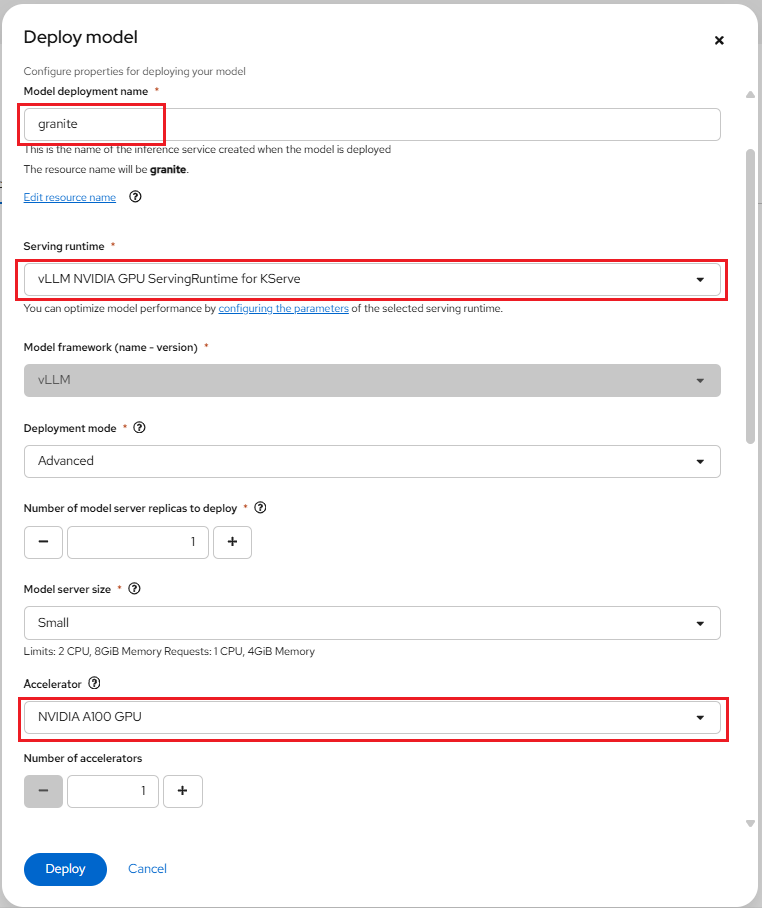
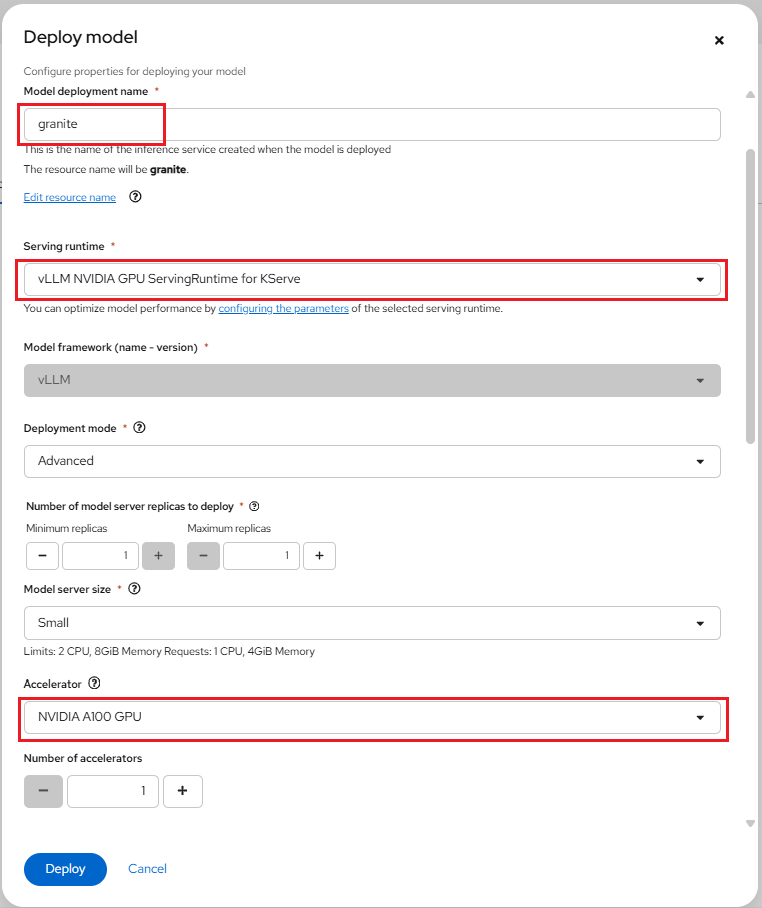
screenshot to show **Number of model server replicas to deploy** has **Minimum replicas** and **Maximum replicas**

Changed region(s): [[0.0302, 0.5551, 0.3622, 0.6476], [0.3924, 0.5859, 0.4226, 0.6167]]

diff --git a/docs/openshift-ai/data-science-project/using-projects-the-rhoai.md b/docs/openshift-ai/data-science-project/using-projects-the-rhoai.md
@@ -33,15 +33,41 @@ Within the data science project, you can add the following configuration options
 -   **Pipelines**: A list of created and configured data science pipeline servers
     within the project.
 
--   **Models**: A list of models and model servers that your project uses. Models
-    allow you to quickly serve a trained model for real-time inference. You can
-    have multiple model servers per data science project. One model server can
-    host multiple models.
+    *Pipelines* allow you to run multiple steps in a data science workflow,
+    where each step can be represented by an individual Jupyter notebook.
 
--   **Cluster storage**: Storage for your project in your OpenShift cluster.
+    *For example*, a typical workflow might begin with data cleaning, followed
+    by model training and prediction generation. Pipelines connect these
+    notebooks together and ensure that each step runs automatically in the
+    correct sequence.
+
+-   **Models**: A list of models and model servers used within your project. Models
+    enable you to serve trained models for real-time inference. You can configure
+    multiple model servers per data science project. Once a model is built, you
+    can use it by sending input data—typically through an API—and receiving
+    predictions or results in response.  
+
+    Models are generally stored as files in *storage* systems such as an S3
+    bucket or similar data store, which are accessed through configured **connections**.
+
+    More information about **Model Serving** in NERC RHOAI can be found [here](../data-science-project/model-serving-in-the-rhoai.md).
+
+-   **Cluster storage**: Storage for your project in your OpenShift cluster. Cluster
+    storage uses a **Persistent Volume Claim (PVC)** to store your Jupyter notebooks
+    and associated data, ensuring that your work remains saved and accessible even
+    if the notebook server restarts.
 
 -   **Connections**: A list of data sources that your project uses, such as an S3
-    object bucket.
+    object bucket. *Connections* allow you to link your project to external
+    storage systems and services. Typically, models are saved using
+    **S3-compatible storage** through a connection, but connections can also
+    serve other purposes, such as:
+
+    i. **OCI-compliant registries** – Integrate with container registries.
+
+    ii. **S3-compatible object storage** – Save models, datasets, and other files.
+
+    iii. **URIs** – Connect to various external data sources.
 
 -   **Permissions**: define which users and groups can access the project.
 

diff --git a/docs/openshift-ai/logging-in/the-rhoai-dashboard-overview.md b/docs/openshift-ai/logging-in/the-rhoai-dashboard-overview.md
@@ -11,6 +11,8 @@ In the NERC's RHOAI dashboard, you can see multiple links on your left hand side
     deploy various development environments (such as Jupyter Notebooks, VS Code,
     RStudio, etc.), create connections, or serve models.
 
+    More information about *Data Science Projects (DSP)* can be found [here](../data-science-project/using-projects-the-rhoai.md).
+
     !!! info "What are Workbenches?"
 
         Workbenches are development environments. They can be based on JupyterLab,
@@ -28,16 +30,21 @@ In the NERC's RHOAI dashboard, you can see multiple links on your left hand side
         models. Users can select a model registry to view and manage your registered
         models.
 
+        !!! warning "Important Note"
+
+            This feature is not yet available to users.
+
     -   _Model deployments_: Manage and view the health and performance of your
         deployed models. Also, you can "Deploy Model" to a specific project selected
         from the dropdown menu here. Models enable you to quickly serve trained
         models for real-time inference. Each data science project can have multiple
-        model servers, and each server can host multiple models.
+        model servers, and each server can host models. More information about
+        **Model Serving** in NERC RHOAI can be found [here](../data-science-project/model-serving-in-the-rhoai.md).
 
 3.  **Data Science Pipelines**:
 
     -   _Pipelines_: Manage your pipelines for a specific project selected from the
-        dropdown menu.
+        dropdown menu.  
 
     -   _Runs_: Manage and view your runs for a specific project selected from the
         dropdown menu.
@@ -51,6 +58,10 @@ In the NERC's RHOAI dashboard, you can see multiple links on your left hand side
     processing and the full ML lifecycle-training, tuning, and serving - by prioritizing
     and distributing jobs for optimal node utilization. Advanced GPU support ensures
     the performance and scalability required for foundation-model workloads.
+
+    !!! warning "Important Note"
+
+        This feature is not yet available to users.
 
 6.  **Applications**:
 

diff --git a/docs/openshift-ai/data-science-project/model-serving-in-the-rhoai.md b/docs/openshift-ai/data-science-project/model-serving-in-the-rhoai.md
@@ -82,9 +82,10 @@ In the pop-up window that appears, you can specify the following details:
     ii. **Standard**: Alternatively, you can use standard deployment mode, which
             uses KServe Raw Deployment mode.
 
--   **Number of model server replicas to deploy**: This is the number of instances
-    of the model server engine that you want to deploy. You can scale it up as needed,
-    depending on the number of requests you will receive.
+-   **Number of model server replicas to deploy**: This defines the number of
+    instances of the **model server engine** you want to deploy. You can scale it
+    up as needed by specifying the **Minimum replicas** and **Maximum replicas**,
+    depending on the expected number of incoming requests.
 
 -   **Model server size**: This is the amount of resources, CPU, and RAM that will
     be allocated to your server. Select the appropriate configuration for size and
@@ -177,8 +178,8 @@ In the pop-up window that appears, you can specify the following details:
     options in your OpenShift Data Science deployment. This framework is used to
     deploy and serve machine learning models.
 
--   **Number of model server replicas**: This is the number of instances of the
-    model server engine that you want to deploy. You can scale it up as needed,
+-   **Number of model server replicas to deploy**: This is the number of instances
+    of the model server engine that you want to deploy. You can scale it up as needed,
     depending on the number of requests you will receive.
 
 -   **Model server size**: This is the amount of resources, CPU, and RAM that will

diff --git a/docs/openshift-ai/other-projects/serving-tgis-and-FLAN-T5-Model.md b/docs/openshift-ai/other-projects/serving-tgis-and-FLAN-T5-Model.md
@@ -217,7 +217,8 @@ Enter the following information for your new model:
 
 -   **Deployment mode**: From the Deployment mode list, select **Advanced** option.
 
--   **Number of model server replicas to deploy**: `1`.
+-   **Number of model server replicas to deploy** has **Minimum replicas**: `1`
+    and **Maximum replicas**:`1`.
 
 -   **Model server size**: This is the amount of resources, CPU, and RAM that will
     be allocated to your server. Here, you can select `Small` size.
@@ -253,9 +254,10 @@ For our example, set the **Model deployment name** to `flan-t5-small`, and selec
 **Serving runtime** as `TGIS Standalone ServingRuntime for KServe`. Also, ensure
 that the **Deployment mode** is set to `Advanced`.
 
-Please leave the other fields with their default settings, such as
-**Number of model server replicas to deploy** set to `1` and **Model server size**
-set to `Small`, and **Accelerator** set to `None`.
+Please leave the other fields at their default settings. For example, the
+**Number of model server replicas to deploy** has **Minimum replicas** set to `1`
+and **Maximum replicas** set to `1`, **Model server size** set to `Small`, and
+**Accelerator** set to `None`.
 
 ![Configure and Deploy Model Info](images/flan-configure-and-deploy-model-info.png)
 

diff --git a/docs/openshift-ai/other-projects/serving-vLLM-and-Granite-Models.md b/docs/openshift-ai/other-projects/serving-vLLM-and-Granite-Models.md
@@ -158,7 +158,8 @@ Enter the following information for your new model:
 
 -   **Deployment mode**: From the Deployment mode list, select **Advanced** option.
 
--   **Number of model server replicas to deploy**: `1`.
+-   **Number of model server replicas to deploy** has **Minimum replicas**: `1`
+    and **Maximum replicas**:`1`.
 
 -   **Model server size**: This is the amount of resources, CPU, and RAM that will
     be allocated to your server. Here, you can select `Small` size.
@@ -196,9 +197,9 @@ For our example, set the **Model deployment name** to `granite`, and select
 **Serving runtime** as `vLLM NVIDIA GPU ServingRuntime for KServe`. Also, ensure
 that the **Deployment mode** is set to `Advanced`.
 
-Please leave the other fields with their default settings, such as
-**Number of model server replicas to deploy** set to `1` and **Model server size**
-set to `Small`.
+Please leave the other fields at their default settings. For example, the
+**Number of model server replicas to deploy** has **Minimum replicas** set to `1`
+and **Maximum replicas** set to `1`, and the **Model server size** is set to `Small`.
 
 ![Configure and Deploy Model Info](images/configure-and-deploy-model-info.png)
 
